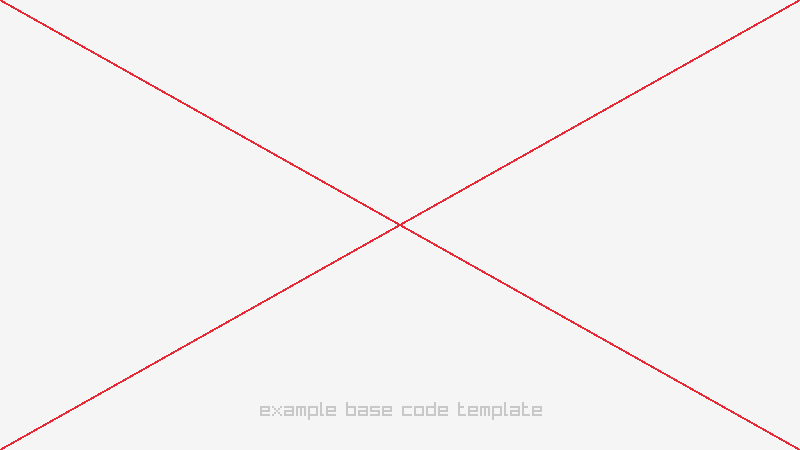
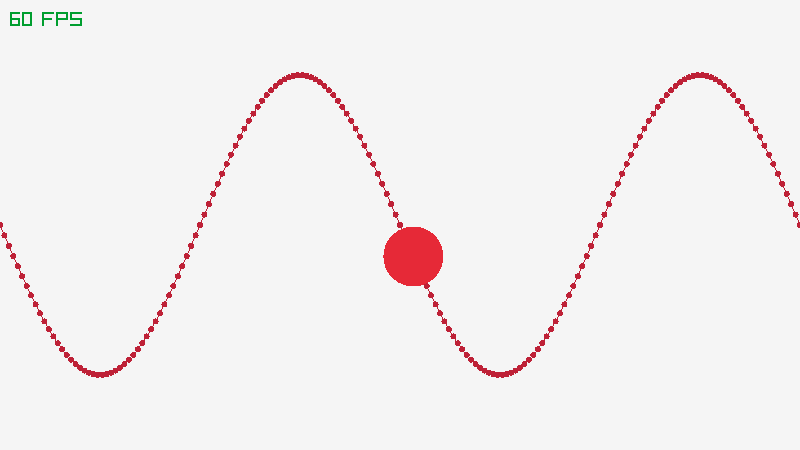
WARNING: REMOVED: GIT recording option, added example

diff --git a/examples/core/core_screen_recording.c b/examples/core/core_screen_recording.c
@@ -2,11 +2,9 @@
 *
 *   raylib [core] example - screen recording
 *
-*   Example complexity rating: [★☆☆☆] 1/4
+*   Example complexity rating: [★★☆☆] 2/4
 *
 *   Example originally created with raylib 5.6-dev, last time updated with raylib 5.6-dev
-*
-*   Example contributed by Ramon Santamaria (@raysan5) and reviewed by Ramon Santamaria (@raysan5)
 *
 *   Example licensed under an unmodified zlib/libpng license, which is an OSI-certified,
 *   BSD-like license that allows static linking with closed source software
@@ -16,6 +14,16 @@
 ********************************************************************************************/
 
 #include "raylib.h"
+
+// Using msf_gif library to record frames into GIF
+#define MSF_GIF_IMPL
+#include "msf_gif.h"            // GIF recording functionality
+
+#include <math.h>               // Required for: sinf()
+
+#define GIF_RECORD_FRAMERATE     5     // Record framerate, we get a frame every N frames
+
+#define MAX_SINEWAVE_POINTS    256
 
 //------------------------------------------------------------------------------------
 // Program main entry point
@@ -29,7 +37,20 @@ int main(void)
 
     InitWindow(screenWidth, screenHeight, "raylib [core] example - screen recording");
 
-    // TODO: Load resources / Initialize variables at this point
+    bool gifRecording = false;           // GIF recording state
+    unsigned int gifFrameCounter = 0;    // GIF frames counter
+    MsfGifState gifState = { 0 };        // MSGIF context state
+
+    Vector2 circlePosition = { 0.0f, screenHeight/2.0f };
+    float timeCounter = 0.0f;
+
+    // Get sine wave points for line drawing
+    Vector2 sinePoints[MAX_SINEWAVE_POINTS] = { 0 };
+    for (int i = 0; i < MAX_SINEWAVE_POINTS; i++)
+    {
+        sinePoints[i].x = i*GetScreenWidth()/180.0f;
+        sinePoints[i].y = screenHeight/2.0f + 150*sinf((2*PI/1.5f)*(1.0f/60.0f)*(float)i); // Calculate for 60 fps
+    }
 
     SetTargetFPS(60);
     //--------------------------------------------------------------------------------------
@@ -39,7 +60,59 @@ int main(void)
     {
         // Update
         //----------------------------------------------------------------------------------
-        // TODO: Update variables / Implement example logic at this point
+        // Update circle sinusoidal movement
+        timeCounter += GetFrameTime();
+        circlePosition.x += GetScreenWidth()/180.0f;
+        circlePosition.y = screenHeight/2.0f + 150*sinf((2*PI/1.5f)*timeCounter);
+        if (circlePosition.x > screenWidth)
+        {
+            circlePosition.x = 0.0f;
+            circlePosition.y = screenHeight/2.0f;
+            timeCounter = 0.0f;
+        }
+
+        // Start-Stop GIF recording on CTRL+R
+        if (IsKeyDown(KEY_LEFT_CONTROL) && IsKeyPressed(KEY_R))
+        {
+            if (gifRecording)
+            {
+                // Stop current recording and save file
+                gifRecording = false;
+                MsfGifResult result = msf_gif_end(&gifState);
+                SaveFileData(TextFormat("%s/screenrecording.gif", GetApplicationDirectory()), result.data, (unsigned int)result.dataSize);
+                msf_gif_free(result);
+
+                TraceLog(LOG_INFO, "Finish animated GIF recording");
+            }
+            else
+            {
+                // Start a new recording
+                gifRecording = true;
+                gifFrameCounter = 0;
+                msf_gif_begin(&gifState, GetRenderWidth(), GetRenderHeight());
+
+                TraceLog(LOG_INFO, "Start animated GIF recording");
+            }
+        }
+
+        if (gifRecording)
+        {
+            gifFrameCounter++;
+
+            // NOTE: We record one gif frame depending on the desired gif framerate
+            if (gifFrameCounter > GIF_RECORD_FRAMERATE)
+            {
+                // Get image data for the current frame (from backbuffer)
+                // WARNING: This process is quite slow, it can generate stuttering
+                Image imScreen = LoadImageFromScreen();
+
+                // Add the frame to the gif recording, providing and "estimated" time for display in centiseconds
+                msf_gif_frame(&gifState, imScreen.data, (int)((1.0f/60.0f)*GIF_RECORD_FRAMERATE)/10, 16, imScreen.width*4);
+                gifFrameCounter = 0;
+
+                UnloadImage(imScreen);    // Free image data
+            }
+        }
         //----------------------------------------------------------------------------------
 
         // Draw
@@ -48,20 +121,43 @@ int main(void)
 
             ClearBackground(RAYWHITE);
 
-            // TODO: Draw everything that requires to be drawn at this point
+            for (int i = 0; i < (MAX_SINEWAVE_POINTS - 1); i++)
+            {
+                DrawLineV(sinePoints[i], sinePoints[i + 1], MAROON);
+                DrawCircleV(sinePoints[i], 3, MAROON);
+            }
 
-            DrawLineEx((Vector2){ 0, 0 }, (Vector2){ screenWidth, screenHeight }, 2.0f, RED);
-            DrawLineEx((Vector2){ 0, screenHeight }, (Vector2){ screenWidth, 0 }, 2.0f, RED);
-            DrawText("example base code template", 260, 400, 20, LIGHTGRAY);
+            DrawCircleV(circlePosition, 30, RED);
 
+            DrawFPS(10, 10);
+
+            /*
+            // Draw record indicator
+            // WARNING: If drawn here, it will appear in the recorded image,
+            // use a render texture instead for the recording and LoadImageFromTexture(rt.texture)
+            if (gifRecording)
+            {
+                // Display the recording indicator every half-second
+                if ((int)(GetTime()/0.5)%2 == 1)
+                {
+                    DrawCircle(30, GetScreenHeight() - 20, 10, MAROON);
+                    DrawText("GIF RECORDING", 50, GetScreenHeight() - 25, 10, RED);
+                }
+            }
+            */
         EndDrawing();
         //----------------------------------------------------------------------------------
     }
 
     // De-Initialization
     //--------------------------------------------------------------------------------------
-
-    // TODO: Unload all loaded resources at this point
+    // If still recording a GIF on close window, just finish
+    if (gifRecording)
+    {
+        MsfGifResult result = msf_gif_end(&gifState);
+        msf_gif_free(result);
+        gifRecording = false;
+    }
 
     CloseWindow();        // Close window and OpenGL context
     //--------------------------------------------------------------------------------------

diff --git a/src/rcore.c b/src/rcore.c
@@ -52,9 +52,6 @@
 *       #define SUPPORT_SCREEN_CAPTURE
 *           Allow automatic screen capture of current screen pressing F12, defined in KeyCallback()
 *
-*       #define SUPPORT_GIF_RECORDING
-*           Allow automatic gif recording of current screen pressing CTRL+F12, defined in KeyCallback()
-*
 *       #define SUPPORT_COMPRESSION_API
 *           Support CompressData() and DecompressData() functions, those functions use zlib implementation
 *           provided by stb_image and stb_image_write libraries, so, those libraries must be enabled on textures module
@@ -132,15 +129,6 @@
 #if defined(SUPPORT_CAMERA_SYSTEM)
     #define RCAMERA_IMPLEMENTATION
     #include "rcamera.h"            // Camera system functionality
-#endif
-
-#if defined(SUPPORT_GIF_RECORDING)
-    #define MSF_GIF_MALLOC(contextPointer, newSize) RL_MALLOC(newSize)
-    #define MSF_GIF_REALLOC(contextPointer, oldMemory, oldSize, newSize) RL_REALLOC(oldMemory, newSize)
-    #define MSF_GIF_FREE(contextPointer, oldMemory, oldSize) RL_FREE(oldMemory)
-
-    #define MSF_GIF_IMPL
-    #include "external/msf_gif.h"   // GIF recording functionality
 #endif
 
 #if defined(SUPPORT_COMPRESSION_API)
@@ -400,12 +388,6 @@ bool isGpuReady = false;
 
 #if defined(SUPPORT_SCREEN_CAPTURE)
 static int screenshotCounter = 0;           // Screenshots counter
-#endif
-
-#if defined(SUPPORT_GIF_RECORDING)
-static unsigned int gifFrameCounter = 0;    // GIF frames counter
-static bool gifRecording = false;           // GIF recording state
-static MsfGifState gifState = { 0 };        // MSGIF context state
 #endif
 
 #if defined(SUPPORT_AUTOMATION_EVENTS)
@@ -758,15 +740,6 @@ void InitWindow(int width, int height, const char *title)
 // Close window and unload OpenGL context
 void CloseWindow(void)
 {
-#if defined(SUPPORT_GIF_RECORDING)
-    if (gifRecording)
-    {
-        MsfGifResult result = msf_gif_end(&gifState);
-        msf_gif_free(result);
-        gifRecording = false;
-    }
-#endif
-
 #if defined(SUPPORT_MODULE_RTEXT) && defined(SUPPORT_DEFAULT_FONT)
     UnloadFontDefault();        // WARNING: Module required: rtext
 #endif
@@ -929,47 +902,6 @@ void EndDrawing(void)
 {
     rlDrawRenderBatchActive();      // Update and draw internal render batch
 
-#if defined(SUPPORT_GIF_RECORDING)
-    // Draw record indicator
-    if (gifRecording)
-    {
-        #ifndef GIF_RECORD_FRAMERATE
-        #define GIF_RECORD_FRAMERATE    10
-        #endif
-        gifFrameCounter += (unsigned int)(GetFrameTime()*1000);
-
-        // NOTE: We record one gif frame depending on the desired gif framerate
-        if (gifFrameCounter > 1000/GIF_RECORD_FRAMERATE)
-        {
-            // Get image data for the current frame (from backbuffer)
-            // NOTE: This process is quite slow... :(
-            Vector2 scale = GetWindowScaleDPI();
-            unsigned char *screenData = rlReadScreenPixels((int)((float)CORE.Window.render.width*scale.x), (int)((float)CORE.Window.render.height*scale.y));
-
-            #ifndef GIF_RECORD_BITRATE
-            #define GIF_RECORD_BITRATE 16
-            #endif
-
-            // Add the frame to the gif recording, given how many frames have passed in centiseconds
-            msf_gif_frame(&gifState, screenData, gifFrameCounter/10, GIF_RECORD_BITRATE, (int)((float)CORE.Window.render.width*scale.x)*4);
-            gifFrameCounter -= 1000/GIF_RECORD_FRAMERATE;
-
-            RL_FREE(screenData);    // Free image data
-        }
-
-    #if defined(SUPPORT_MODULE_RSHAPES) && defined(SUPPORT_MODULE_RTEXT)
-        // Display the recording indicator every half-second
-        if ((int)(GetTime()/0.5)%2 == 1)
-        {
-            DrawCircle(30, CORE.Window.screen.height - 20, 10, MAROON);                 // WARNING: Module required: rshapes
-            DrawText("GIF RECORDING", 50, CORE.Window.screen.height - 25, 10, RED);     // WARNING: Module required: rtext
-        }
-    #endif
-
-        rlDrawRenderBatchActive();  // Update and draw internal render batch
-    }
-#endif
-
 #if defined(SUPPORT_AUTOMATION_EVENTS)
     if (automationEventRecording) RecordAutomationEvent();    // Event recording
 #endif
@@ -1002,38 +934,8 @@ void EndDrawing(void)
 #if defined(SUPPORT_SCREEN_CAPTURE)
     if (IsKeyPressed(KEY_F12))
     {
-#if defined(SUPPORT_GIF_RECORDING)
-        if (IsKeyDown(KEY_LEFT_CONTROL))
-        {
-            if (gifRecording)
-            {
-                gifRecording = false;
-
-                MsfGifResult result = msf_gif_end(&gifState);
-
-                SaveFileData(TextFormat("%s/screenrec%03i.gif", CORE.Storage.basePath, screenshotCounter), result.data, (unsigned int)result.dataSize);
-                msf_gif_free(result);
-
-                TRACELOG(LOG_INFO, "SYSTEM: Finish animated GIF recording");
-            }
-            else
-            {
-                gifRecording = true;
-                gifFrameCounter = 0;
-
-                Vector2 scale = GetWindowScaleDPI();
-                msf_gif_begin(&gifState, (int)((float)CORE.Window.render.width*scale.x), (int)((float)CORE.Window.render.height*scale.y));
-                screenshotCounter++;
-
-                TRACELOG(LOG_INFO, "SYSTEM: Start animated GIF recording: %s", TextFormat("screenrec%03i.gif", screenshotCounter));
-            }
-        }
-        else
-#endif  // SUPPORT_GIF_RECORDING
-        {
-            TakeScreenshot(TextFormat("screenshot%03i.png", screenshotCounter));
-            screenshotCounter++;
-        }
+        TakeScreenshot(TextFormat("screenshot%03i.png", screenshotCounter));
+        screenshotCounter++;
     }
 #endif  // SUPPORT_SCREEN_CAPTURE
 

diff --git a/src/config.h b/src/config.h
@@ -60,8 +60,6 @@
 #define SUPPORT_PARTIALBUSY_WAIT_LOOP    1
 // Allow automatic screen capture of current screen pressing F12, defined in KeyCallback()
 #define SUPPORT_SCREEN_CAPTURE          1
-// Allow automatic gif recording of current screen pressing CTRL+F12, defined in KeyCallback()
-#define SUPPORT_GIF_RECORDING           1
 // Support CompressData() and DecompressData() functions
 #define SUPPORT_COMPRESSION_API         1
 // Support automatic generated events, loading and recording of those events when required

diff --git a/src/raylib.h b/src/raylib.h
@@ -33,7 +33,6 @@
 *       [raudio] miniaudio (David Reid - github.com/mackron/miniaudio) for audio device/context management
 *
 *   OPTIONAL DEPENDENCIES (included):
-*       [rcore] msf_gif (Miles Fogle) for GIF recording
 *       [rcore] sinfl (Micha Mettke) for DEFLATE decompression algorithm
 *       [rcore] sdefl (Micha Mettke) for DEFLATE compression algorithm
 *       [rcore] rprand (Ramon Santamaria) for pseudo-random numbers generation

diff --git a/examples/README.md b/examples/README.md
@@ -68,7 +68,7 @@ Examples using raylib[core](../src/rcore.c) platform functionality like window c
 | [core_input_actions](core/core_input_actions.c) | <img src="core/core_input_actions.png" alt="core_input_actions" width="80"> | ⭐⭐☆☆ | 5.5 | 5.6 | [Jett](https://github.com/JettMonstersGoBoom) |
 | [core_directory_files](core/core_directory_files.c) | <img src="core/core_directory_files.png" alt="core_directory_files" width="80"> | ⭐☆☆☆ | 5.5 | 5.6 | [Hugo ARNAL](https://github.com/hugoarnal) |
 | [core_highdpi_testbed](core/core_highdpi_testbed.c) | <img src="core/core_highdpi_testbed.png" alt="core_highdpi_testbed" width="80"> | ⭐☆☆☆ | 5.6-dev | 5.6-dev | [Ramon Santamaria](https://github.com/raysan5) |
-| [core_screen_recording](core/core_screen_recording.c) | <img src="core/core_screen_recording.png" alt="core_screen_recording" width="80"> | ⭐☆☆☆ | 5.6-dev | 5.6-dev | [Ramon Santamaria](https://github.com/raysan5) |
+| [core_screen_recording](core/core_screen_recording.c) | <img src="core/core_screen_recording.png" alt="core_screen_recording" width="80"> | ⭐⭐☆☆ | 5.6-dev | 5.6-dev | [Ramon Santamaria](https://github.com/raysan5) |
 | [core_clipboard_text](core/core_clipboard_text.c) | <img src="core/core_clipboard_text.png" alt="core_clipboard_text" width="80"> | ⭐☆☆☆ | 5.6-dev | 5.6-dev | [Robin](https://github.com/RobinsAviary) |
 | [core_text_file_loading](core/core_text_file_loading.c) | <img src="core/core_text_file_loading.png" alt="core_text_file_loading" width="80"> | ⭐☆☆☆ | 5.5 | 5.6 | [Aanjishnu Bhattacharyya](https://github.com/NimComPoo-04) |
 | [core_compute_hash](core/core_compute_hash.c) | <img src="core/core_compute_hash.png" alt="core_compute_hash" width="80"> | ⭐⭐☆☆ | 5.6-dev | 5.6-dev | [Ramon Santamaria](https://github.com/raysan5) |

diff --git a/tools/rexm/examples_report.md b/tools/rexm/examples_report.md
@@ -63,7 +63,7 @@ Example elements validated:
 | core_input_actions               |  ✔ |  ✔  |  ✔  |  ✔ |  ✔  |  ✔  |  ✔ |   ✔  |  ✔  |  ✔ |  ✔  |  ✔ |  ✔  |  ✔  |
 | core_directory_files             |  ✔ |  ✔  |  ✔  |  ✔ |  ✔  |  ✔  |  ✔ |   ✔  |  ✔  |  ✔ |  ✔  |  ✔ |  ✔  |  ✔  |
 | core_highdpi_testbed             |  ✔ |  ✔  |  ✔  |  ✔ |  ❌  |  ✔  |  ✔ |   ✔  |  ✔  |  ✔ |  ✔  |  ✔ |  ✔  |  ✔  |
-| core_screen_recording            |  ✔ |  ✔  |  ✔  |  ✔ |  ❌  |  ✔  |  ✔ |   ✔  |  ✔  |  ✔ |  ✔  |  ✔ |  ✔  |  ✔  |
+| core_screen_recording            |  ✔ |  ✔  |  ✔  |  ✔ |  ✔  |  ✔  |  ✔ |   ✔  |  ✔  |  ✔ |  ✔  |  ✔ |  ✔  |  ✔  |
 | core_clipboard_text              |  ✔ |  ✔  |  ✔  |  ✔ |  ✔  |  ✔  |  ✔ |   ✔  |  ✔  |  ✔ |  ✔  |  ✔ |  ✔  |  ✔  |
 | core_text_file_loading           |  ✔ |  ✔  |  ✔  |  ✔ |  ✔  |  ✔  |  ✔ |   ✔  |  ✔  |  ✔ |  ✔  |  ✔ |  ✔  |  ✔  |
 | core_compute_hash                |  ✔ |  ✔  |  ✔  |  ✔ |  ✔  |  ✔  |  ✔ |   ✔  |  ✔  |  ✔ |  ✔  |  ✔ |  ✔  |  ✔  |

diff --git a/tools/rexm/examples_report_issues.md b/tools/rexm/examples_report_issues.md
@@ -21,7 +21,6 @@ Example elements validated:
 | **EXAMPLE NAME**                 | [C] | [CAT]| [INFO]|[PNG]|[WPNG]| [RES]| [MK] |[MKWEB]| [VCX]| [SOL]|[RDME]|[JS] | [WOUT]|[WMETA]|
 |:---------------------------------|:---:|:----:|:-----:|:---:|:----:|:----:|:----:|:-----:|:----:|:----:|:----:|:---:|:-----:|:-----:|
 | core_highdpi_testbed             |  ✔ |  ✔  |  ✔  |  ✔ |  ❌  |  ✔  |  ✔ |   ✔  |  ✔  |  ✔ |  ✔  |  ✔ |  ✔  |  ✔  |
-| core_screen_recording            |  ✔ |  ✔  |  ✔  |  ✔ |  ❌  |  ✔  |  ✔ |   ✔  |  ✔  |  ✔ |  ✔  |  ✔ |  ✔  |  ✔  |
 | rlgl_standalone                  |  ✔ |  ❌  |  ✔  |  ✔ |  ✔  |  ✔  |  ✔ |   ✔  |  ✔  |  ✔ |  ✔  |  ✔ |  ✔  |  ✔  |
 | rlgl_compute_shader              |  ✔ |  ❌  |  ✔  |  ✔ |  ✔  |  ✔  |  ✔ |   ✔  |  ✔  |  ✔ |  ✔  |  ✔ |  ✔  |  ✔  |
 | easings_testbed                  |  ✔ |  ❌  |  ✔  |  ✔ |  ✔  |  ✔  |  ✔ |   ✔  |  ✔  |  ✔ |  ✔  |  ✔ |  ✔  |  ✔  |
